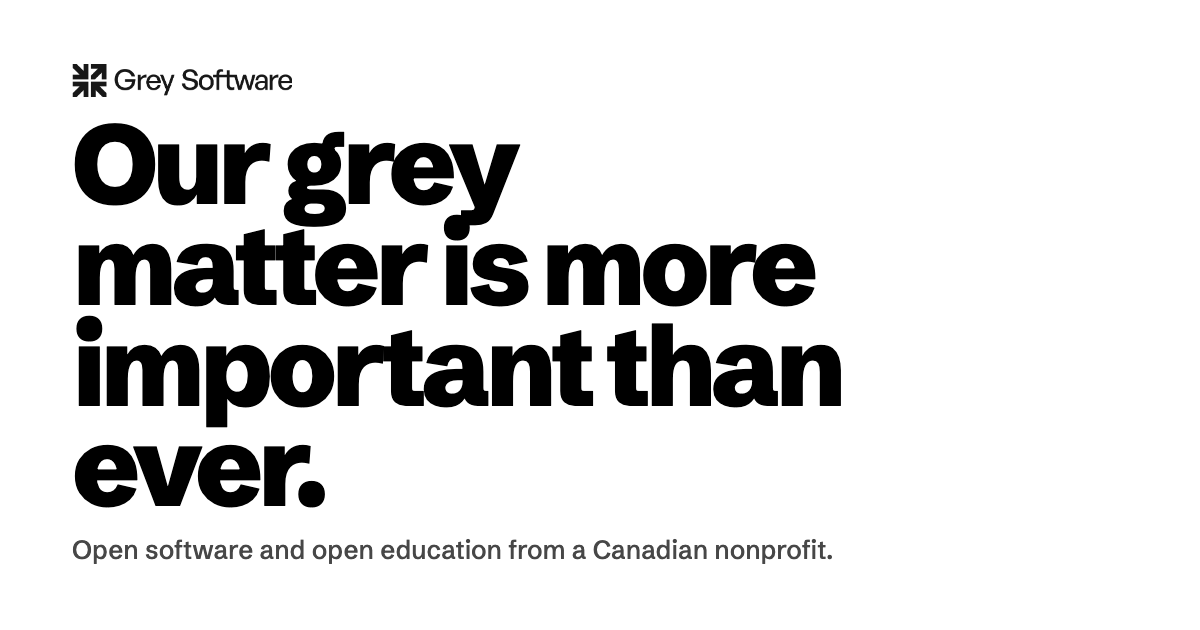
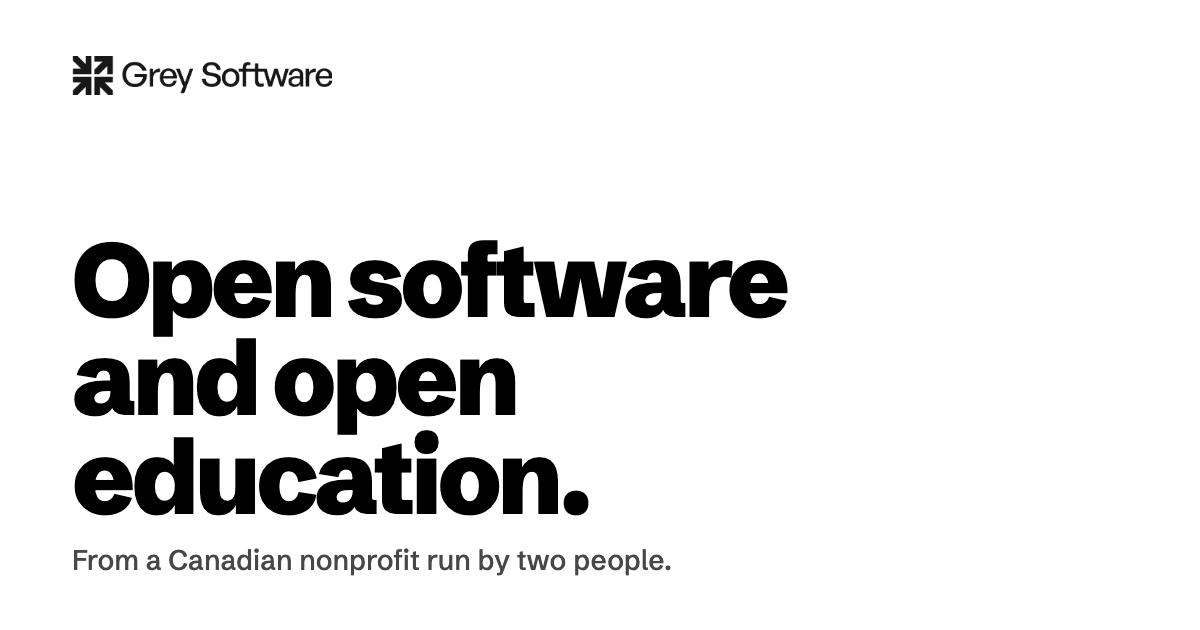
Update homepage Picks and page share cards

Changed region(s): [[0.0617, 0.181, 0.7092, 0.8143], [0.0617, 0.8444, 0.6783, 0.9048], [0.0617, 0.0905, 0.2775, 0.1508]]

diff --git a/index.html b/index.html
@@ -4,21 +4,25 @@
 <meta charset="utf-8">
 <meta name="viewport" content="width=device-width, initial-scale=1">
 <title>Grey Software</title>
-<meta name="description" content="Grey Software is a Canadian nonprofit making open software and open education. Four apps are live as alphas: Zenshu Paper, Arcade, Garden and graphyti.">
+<meta name="description" content="Grey Software is a Canadian nonprofit making open software and learning tools, including apps for mental maths and interactive graphs.">
 <meta name="theme-color" content="#ffffff">
 <meta property="og:type" content="website">
 <meta property="og:site_name" content="Grey Software">
-<meta property="og:title" content="Our grey matter is more important than ever.">
-<meta property="og:description" content="Open software and open education from a Canadian nonprofit. Four apps are live as alphas.">
+<meta property="og:title" content="Grey Software">
+<meta property="og:description" content="Grey Software is a Canadian nonprofit making open software and learning tools, including apps for mental maths and interactive graphs.">
 <meta property="og:image" content="https://greysoftware.org/img/og.png">
 <meta property="og:image:width" content="1200">
 <meta property="og:image:height" content="630">
-<meta property="og:image:alt" content="Our grey matter is more important than ever. Open software and open education from a Canadian nonprofit.">
+<meta property="og:image:alt" content="Open software and open education. From a Canadian nonprofit run by two people.">
 <meta property="og:url" content="https://greysoftware.org/">
 <link rel="canonical" href="https://greysoftware.org/">
 <meta name="twitter:card" content="summary_large_image">
-<link rel="icon" href="img/mark-32.png" sizes="32x32" type="image/png">
-<link rel="apple-touch-icon" href="img/mark-180.png">
+<meta name="twitter:title" content="Grey Software">
+<meta name="twitter:description" content="Grey Software is a Canadian nonprofit making open software and learning tools, including apps for mental maths and interactive graphs.">
+<meta name="twitter:image" content="https://greysoftware.org/img/og.png">
+<meta name="twitter:image:alt" content="Open software and open education. From a Canadian nonprofit run by two people.">
+<link rel="icon" href="/img/website-icon.png" sizes="32x32" type="image/png">
+<link rel="apple-touch-icon" href="/img/website-apple-touch-icon.png" sizes="180x180">
 <link rel="preload" href="fonts/schibsted-grotesk-latin.woff2" as="font" type="font/woff2" crossorigin>
 <link rel="stylesheet" href="style.css">
 <script>
@@ -56,8 +60,7 @@
     <h1 class="title" data-split>Our grey matter is more important than ever.</h1>
     <script>window.gsSplit && gsSplit(document.currentScript.previousElementSibling)</script>
     <div class="open">
-      <p class="openline" data-reveal style="--d:5">Open software and open education, made by a nonprofit and owned by the people who use them.</p>
-      <p class="who" data-reveal style="--d:6">Grey Software is registered in Canada and run by two people, Arsala and Raj.</p>
+      <p class="openline" data-reveal style="--d:5">Open software and open education, made by a Canadian nonprofit.</p>
     </div>
     <ul class="stances">
       <li data-scrub="ink" data-start="0.92" data-end="0.5"><h2>Practice over shortcuts.</h2><p>We keep doing mental maths though calculators exist, as we keep learning to program though AI can write code.</p></li>
@@ -126,11 +129,14 @@
     <h2 id="shelf-h" data-reveal>Others build things we believe in.</h2>
     <ul class="rows">
       <li data-reveal><a href="https://github.com/ossu/computer-science">OSSU computer science</a><p>A whole undergraduate path in computer science, built from free online courses, with a community to study alongside.</p><p class="cost">Years of self-discipline, and no degree at the end.</p></li>
+      <li data-reveal><a href="https://scrimba.com/">Scrimba</a><p>Interactive coding courses with lessons you can pause and edit to try the code yourself.</p><p class="cost">Choose a course that matches what you want to build.</p></li>
+      <li data-reveal><a href="https://www.boot.dev/">Boot.dev</a><p>Backend development courses with coding exercises and guided projects.</p><p class="cost">A structured path that takes regular practice.</p></li>
       <li data-reveal><a href="https://github.com/practical-tutorials/project-based-learning">Project based learning</a><p>Tutorials that teach a language by building a whole app in it.</p><p class="cost">A long list of links, so quality varies.</p></li>
       <li data-reveal><a href="https://github.com/redblobgames/mapgen4">Mapgen4</a><p>A map generator by Red Blob Games that redraws as you paint, with how it works written up as a blog series.</p><p class="cost">No longer maintained.</p></li>
       <li data-reveal><a href="https://github.com/chrislgarry/Apollo-11">Apollo 11 guidance computer</a><p>The 1969 flight software that landed on the Moon, kept as source to read.</p><p class="cost">Written in the guidance computer's assembly. You read it, you do not run it.</p></li>
       <li data-reveal><a href="https://github.com/LadybirdBrowser/ladybird">Ladybird</a><p>A new, independent browser engine, written from the web's own standards.</p><p class="cost">Pre-alpha, and for developers for now.</p></li>
       <li data-reveal><a href="https://github.com/alex-w-developer/GetBlocked">GetBlocked</a><p>A small Chrome extension that blocks trackers and cleans tracking links, all on your own machine.</p><p class="cost">A starter blocklist, and Chrome only.</p></li>
+      <li data-reveal><a href="https://github.com/jordwest/news-feed-eradicator">News Feed Eradicator</a><p>A browser extension that hides social media feeds so you can visit without scrolling through them.</p><p class="cost">Hides feeds on supported sites, rather than blocking the whole site.</p></li>
     </ul>
     <a class="prsm" data-reveal href="https://presm.netlify.app/resources"><span>The rest are in PRSM, Raj's shared collection of resources.</span><b>Open PRSM</b></a>
   </section>

diff --git a/about/index.html b/about/index.html
@@ -9,15 +9,20 @@
 <meta property="og:type" content="website">
 <meta property="og:site_name" content="Grey Software">
 <meta property="og:title" content="About | Grey Software">
-<meta property="og:description" content="A registered Canadian nonprofit run by Arsala and Raj. Open software and open education, in a few short stances.">
+<meta property="og:description" content="Grey Software is a registered Canadian nonprofit run by Arsala and Raj. Open software and open education, in a few short stances.">
 <meta property="og:image" content="https://greysoftware.org/img/og.png">
 <meta property="og:image:width" content="1200">
 <meta property="og:image:height" content="630">
-<meta property="og:image:alt" content="Our grey matter is more important than ever. Open software and open education from a Canadian nonprofit.">
+<meta property="og:image:alt" content="Open software and open education. From a Canadian nonprofit run by two people.">
 <meta property="og:url" content="https://greysoftware.org/about/">
 <link rel="canonical" href="https://greysoftware.org/about/">
-<link rel="icon" href="../img/mark-32.png" sizes="32x32" type="image/png">
-<link rel="apple-touch-icon" href="../img/mark-180.png">
+<meta name="twitter:card" content="summary_large_image">
+<meta name="twitter:title" content="About | Grey Software">
+<meta name="twitter:description" content="Grey Software is a registered Canadian nonprofit run by Arsala and Raj. Open software and open education, in a few short stances.">
+<meta name="twitter:image" content="https://greysoftware.org/img/og.png">
+<meta name="twitter:image:alt" content="Open software and open education. From a Canadian nonprofit run by two people.">
+<link rel="icon" href="/img/website-icon.png" sizes="32x32" type="image/png">
+<link rel="apple-touch-icon" href="/img/website-apple-touch-icon.png" sizes="180x180">
 <link rel="preload" href="../fonts/schibsted-grotesk-latin.woff2" as="font" type="font/woff2" crossorigin>
 <link rel="stylesheet" href="../style.css">
 <script>

diff --git a/impact.html b/impact.html
@@ -9,15 +9,20 @@
 <meta property="og:type" content="website">
 <meta property="og:site_name" content="Grey Software">
 <meta property="og:title" content="Impact | Grey Software">
-<meta property="og:description" content="Who Grey Software sponsors and funds, and how much.">
+<meta property="og:description" content="Who Grey Software sponsors and funds: open source maintainers since 2020, a Pashto language model grant, and the Code for Pakistan hackathon.">
 <meta property="og:image" content="https://greysoftware.org/img/og.png">
 <meta property="og:image:width" content="1200">
 <meta property="og:image:height" content="630">
-<meta property="og:image:alt" content="Our grey matter is more important than ever. Open software and open education from a Canadian nonprofit.">
+<meta property="og:image:alt" content="Open software and open education. From a Canadian nonprofit run by two people.">
 <meta property="og:url" content="https://greysoftware.org/impact">
 <link rel="canonical" href="https://greysoftware.org/impact">
-<link rel="icon" href="img/mark-32.png" sizes="32x32" type="image/png">
-<link rel="apple-touch-icon" href="img/mark-180.png">
+<meta name="twitter:card" content="summary_large_image">
+<meta name="twitter:title" content="Impact | Grey Software">
+<meta name="twitter:description" content="Who Grey Software sponsors and funds: open source maintainers since 2020, a Pashto language model grant, and the Code for Pakistan hackathon.">
+<meta name="twitter:image" content="https://greysoftware.org/img/og.png">
+<meta name="twitter:image:alt" content="Open software and open education. From a Canadian nonprofit run by two people.">
+<link rel="icon" href="/img/website-icon.png" sizes="32x32" type="image/png">
+<link rel="apple-touch-icon" href="/img/website-apple-touch-icon.png" sizes="180x180">
 <link rel="preload" href="fonts/schibsted-grotesk-latin.woff2" as="font" type="font/woff2" crossorigin>
 <link rel="stylesheet" href="style.css">
 <script>

diff --git a/404.html b/404.html
@@ -4,7 +4,25 @@
 <meta charset="utf-8">
 <meta name="viewport" content="width=device-width, initial-scale=1">
 <title>Page not found | Grey Software</title>
-<link rel="icon" href="/img/mark-32.png" sizes="32x32" type="image/png">
+<meta name="description" content="This address has no page. Return to Grey Software to explore our open software and learning tools.">
+<meta name="theme-color" content="#ffffff">
+<meta property="og:type" content="website">
+<meta property="og:site_name" content="Grey Software">
+<meta property="og:title" content="Page not found | Grey Software">
+<meta property="og:description" content="This address has no page. Return to Grey Software to explore our open software and learning tools.">
+<meta property="og:image" content="https://greysoftware.org/img/og.png">
+<meta property="og:image:width" content="1200">
+<meta property="og:image:height" content="630">
+<meta property="og:image:alt" content="Open software and open education. From a Canadian nonprofit run by two people.">
+<meta property="og:url" content="https://greysoftware.org/404.html">
+<link rel="canonical" href="https://greysoftware.org/404.html">
+<meta name="twitter:card" content="summary_large_image">
+<meta name="twitter:title" content="Page not found | Grey Software">
+<meta name="twitter:description" content="This address has no page. Return to Grey Software to explore our open software and learning tools.">
+<meta name="twitter:image" content="https://greysoftware.org/img/og.png">
+<meta name="twitter:image:alt" content="Open software and open education. From a Canadian nonprofit run by two people.">
+<link rel="icon" href="/img/website-icon.png" sizes="32x32" type="image/png">
+<link rel="apple-touch-icon" href="/img/website-apple-touch-icon.png" sizes="180x180">
 <link rel="preload" href="/fonts/schibsted-grotesk-latin.woff2" as="font" type="font/woff2" crossorigin>
 <link rel="stylesheet" href="/style.css">
 </head>

diff --git a/lineage.html b/lineage.html
@@ -9,15 +9,20 @@
 <meta property="og:type" content="website">
 <meta property="og:site_name" content="Grey Software">
 <meta property="og:title" content="Lineage | Grey Software">
-<meta property="og:description" content="The people who built what Grey Software stands on.">
+<meta property="og:description" content="The people who built open software, the open web and free access to knowledge, from Ada Lovelace to Aaron Swartz.">
 <meta property="og:image" content="https://greysoftware.org/img/og.png">
 <meta property="og:image:width" content="1200">
 <meta property="og:image:height" content="630">
-<meta property="og:image:alt" content="Our grey matter is more important than ever. Open software and open education from a Canadian nonprofit.">
+<meta property="og:image:alt" content="Open software and open education. From a Canadian nonprofit run by two people.">
 <meta property="og:url" content="https://greysoftware.org/lineage">
 <link rel="canonical" href="https://greysoftware.org/lineage">
-<link rel="icon" href="img/mark-32.png" sizes="32x32" type="image/png">
-<link rel="apple-touch-icon" href="img/mark-180.png">
+<meta name="twitter:card" content="summary_large_image">
+<meta name="twitter:title" content="Lineage | Grey Software">
+<meta name="twitter:description" content="The people who built open software, the open web and free access to knowledge, from Ada Lovelace to Aaron Swartz.">
+<meta name="twitter:image" content="https://greysoftware.org/img/og.png">
+<meta name="twitter:image:alt" content="Open software and open education. From a Canadian nonprofit run by two people.">
+<link rel="icon" href="/img/website-icon.png" sizes="32x32" type="image/png">
+<link rel="apple-touch-icon" href="/img/website-apple-touch-icon.png" sizes="180x180">
 <link rel="preload" href="fonts/schibsted-grotesk-latin.woff2" as="font" type="font/woff2" crossorigin>
 <link rel="stylesheet" href="style.css">
 <script>

diff --git a/credits.html b/credits.html
@@ -9,15 +9,20 @@
 <meta property="og:type" content="website">
 <meta property="og:site_name" content="Grey Software">
 <meta property="og:title" content="Credits | Grey Software">
-<meta property="og:description" content="The people who made Grey Software's work possible.">
+<meta property="og:description" content="Thank you to everyone who has sponsored or donated to Grey Software, from GitHub sponsors to individual donors.">
 <meta property="og:image" content="https://greysoftware.org/img/og.png">
 <meta property="og:image:width" content="1200">
 <meta property="og:image:height" content="630">
-<meta property="og:image:alt" content="Our grey matter is more important than ever. Open software and open education from a Canadian nonprofit.">
+<meta property="og:image:alt" content="Open software and open education. From a Canadian nonprofit run by two people.">
 <meta property="og:url" content="https://greysoftware.org/credits">
 <link rel="canonical" href="https://greysoftware.org/credits">
-<link rel="icon" href="img/mark-32.png" sizes="32x32" type="image/png">
-<link rel="apple-touch-icon" href="img/mark-180.png">
+<meta name="twitter:card" content="summary_large_image">
+<meta name="twitter:title" content="Credits | Grey Software">
+<meta name="twitter:description" content="Thank you to everyone who has sponsored or donated to Grey Software, from GitHub sponsors to individual donors.">
+<meta name="twitter:image" content="https://greysoftware.org/img/og.png">
+<meta name="twitter:image:alt" content="Open software and open education. From a Canadian nonprofit run by two people.">
+<link rel="icon" href="/img/website-icon.png" sizes="32x32" type="image/png">
+<link rel="apple-touch-icon" href="/img/website-apple-touch-icon.png" sizes="180x180">
 <link rel="preload" href="fonts/schibsted-grotesk-latin.woff2" as="font" type="font/woff2" crossorigin>
 <link rel="stylesheet" href="style.css">
 <script>
